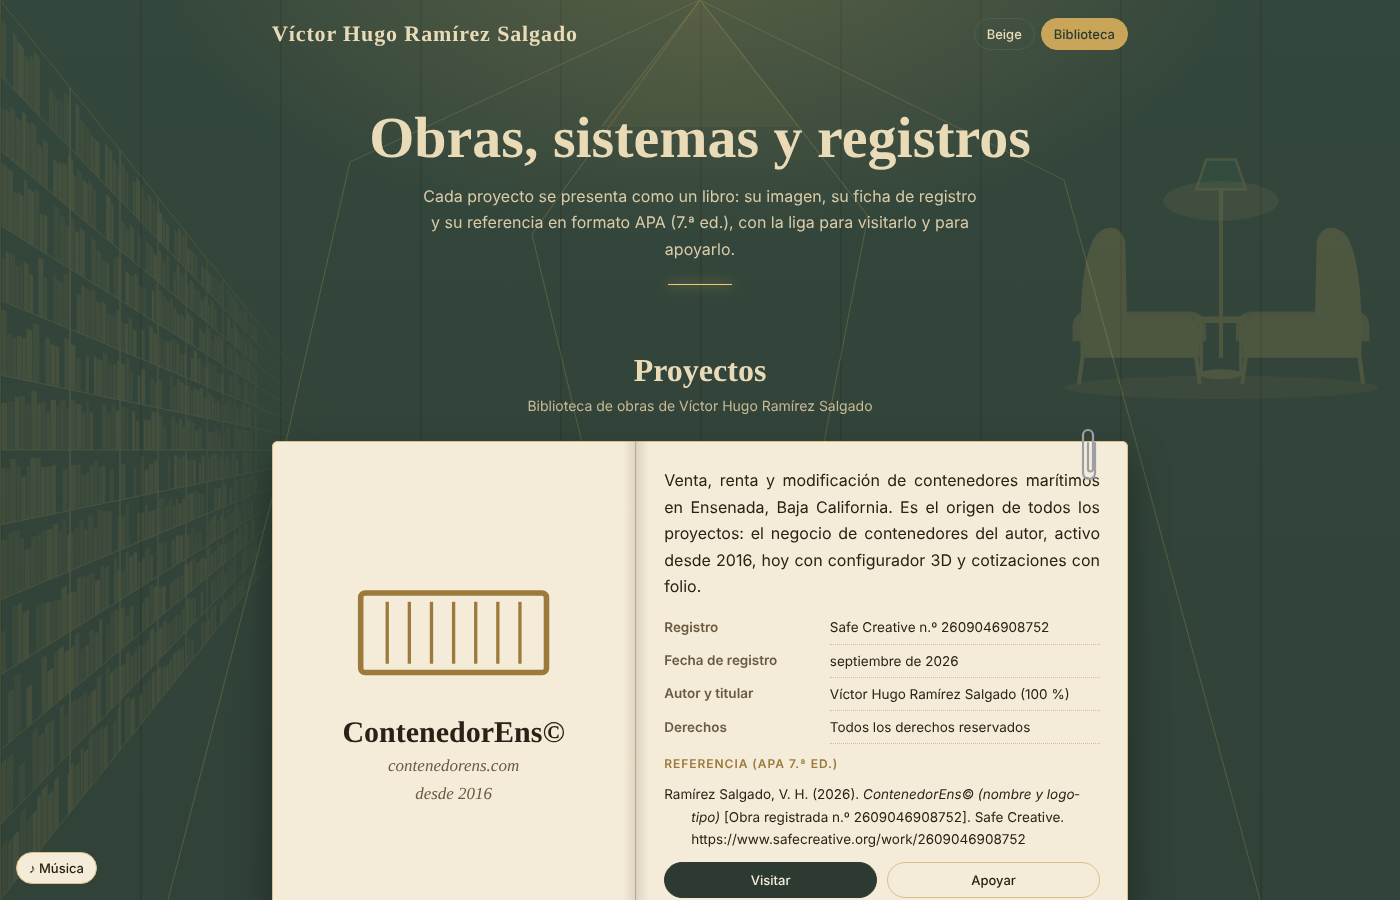
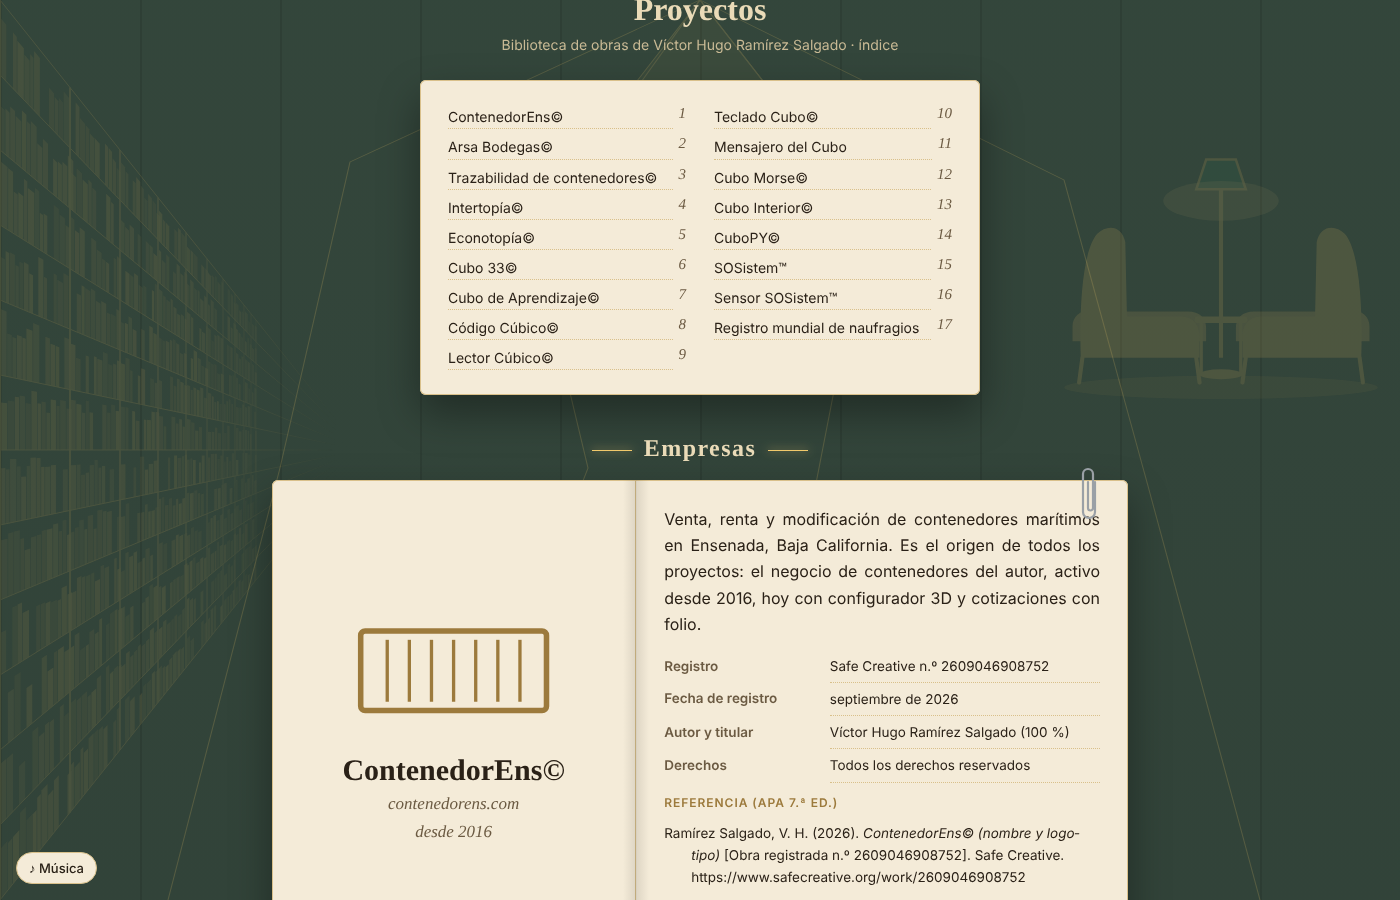
Propuesta: 17 obras como libros con índice y capítulos; se quita Idea 11
Asistencia-IA

Changed region(s): [[0.1843, 0.0, 0.8293, 1.0], [0.2457, 0.6533, 0.3993, 0.9333], [0.7064, 0.0, 0.8293, 0.0622]]

diff --git a/propuesta/index.html b/propuesta/index.html
@@ -44,7 +44,7 @@ body.biblioteca .subt{color:#C9BA95}
 .pag.izq .img{color:var(--acento);width:72%;margin:0 auto}
 .pag.izq h3{font:600 30px/1.05 "Cormorant Garamond",Georgia,serif;margin:6px 0 0}
 .pag.izq .dom{font:italic 500 17px "Cormorant Garamond",Georgia,serif;color:var(--mut)}
-.pag.der{text-align:justify;hyphens:auto;position:relative}
+.pag.der{text-align:justify;hyphens:auto;position:relative;padding-top:40px}
 .pag.der p{margin:0 0 12px}
 .ficha{width:100%;border-collapse:collapse;font-size:13.5px;margin:6px 0 12px}
 .ficha th{text-align:left;font-weight:600;color:var(--mut);padding:5px 8px 5px 0;width:38%;vertical-align:top}
@@ -77,7 +77,13 @@ body.biblioteca footer{color:#BFAF8C}
 .musica-panel li{margin:3px 0}
 .musica-panel a{color:var(--tinta)}
 .musica-panel small{display:block;color:var(--mut);margin-top:8px}
-@media (max-width:720px){
+.indice{max-width:560px;margin:0 auto 34px;padding:22px 28px;background:var(--papel);border-radius:6px;box-shadow:var(--sombra),inset 0 0 0 1px var(--linea);list-style:none;columns:2;column-gap:28px;font-size:14px}
+.indice li{display:flex;gap:6px;break-inside:avoid;padding:3px 0}
+.indice a{color:var(--tinta);text-decoration:none;flex:1;border-bottom:1px dotted var(--linea)}
+.indice span{color:var(--mut);font:italic 500 15px "Cormorant Garamond",Georgia,serif}
+.capitulo{font:600 24px/1.1 "Cormorant Garamond",Georgia,serif;text-align:center;color:var(--titulo);margin:40px 0 18px;letter-spacing:.06em}
+.capitulo:before,.capitulo:after{content:"";display:inline-block;width:40px;height:1px;background:var(--luz);vertical-align:middle;margin:0 12px;box-shadow:0 0 8px var(--luz)}
+@media (max-width:720px){.indice{columns:1}
  .libro{grid-template-columns:1fr}.libro:before{display:none}.pag.izq{border-right:0;border-bottom:1px solid var(--linea)}.pag.izq .img{width:46%}
  .libreria{width:55vw;opacity:.07}.sillones{width:60vw;opacity:.08}body.biblioteca .libreria{opacity:.11}body.biblioteca .sillones{opacity:.12}
 }
@@ -98,7 +104,8 @@ body.biblioteca footer{color:#BFAF8C}
 </section>
 
 <h2 class="sec">Proyectos</h2>
-<p class="subt">Biblioteca de obras de Víctor Hugo Ramírez Salgado</p>
+<p class="subt">Biblioteca de obras de Víctor Hugo Ramírez Salgado · índice</p>
+<ol class="indice" id="indice"></ol>
 <div id="libros"></div>
 
 <h2 class="sec">Constancia de obras registradas</h2>
@@ -122,7 +129,6 @@ body.biblioteca footer{color:#BFAF8C}
   <h4>Música para leer</h4>
   <ol>
    <li><a target="_blank" rel="noopener" href="https://open.spotify.com/search/Gibran%20Alcocer%20Idea%2010">Gibran Alcocer · Idea 10</a></li>
-   <li><a target="_blank" rel="noopener" href="https://open.spotify.com/search/Gibran%20Alcocer%20Idea%2011">Gibran Alcocer · Idea 11</a></li>
    <li><a target="_blank" rel="noopener" href="https://open.spotify.com/search/Gibran%20Alcocer%20Idea%2012">Gibran Alcocer · Idea 12</a></li>
    <li><a target="_blank" rel="noopener" href="https://open.spotify.com/search/Gibran%20Alcocer%20Idea%2022">Gibran Alcocer · Idea 22</a></li>
    <li><a target="_blank" rel="noopener" href="https://open.spotify.com/search/Yann%20Tiersen%20Am%C3%A9lie">Yann Tiersen · <i>Amélie</i> (banda sonora)</a></li>
@@ -143,22 +149,38 @@ econo:'<svg viewBox="0 0 100 60"><circle cx="50" cy="30" r="22" fill="none" stro
 cubo:'<svg viewBox="0 0 100 60"><path d="M50 6l26 13v26L50 58 24 45V19z" fill="none" stroke="currentColor" stroke-width="2.5"/><path d="M24 19l26 13 26-13M50 32v26" fill="none" stroke="currentColor" stroke-width="2"/></svg>',
 codigo:'<svg viewBox="0 0 100 60"><g fill="currentColor">'+Array.from({length:30},(_,i)=>((i*7)%3?`<rect x="${26+(i%6)*8}" y="${8+Math.floor(i/6)*9}" width="6" height="7"/>`:'')).join('')+'</g></svg>',
 teclado:'<svg viewBox="0 0 100 60"><rect x="8" y="14" width="84" height="38" rx="5" fill="none" stroke="currentColor" stroke-width="2.5"/><g fill="currentColor">'+Array.from({length:24},(_,i)=>`<rect x="${14+(i%8)*9.6}" y="${20+Math.floor(i/8)*9}" width="7" height="6" rx="1"/>`).join('')+'</g></svg>',
+aprende:'<svg viewBox="0 0 100 60"><path d="M50 14C40 8 22 8 12 12v40c10-4 28-4 38 2 10-6 28-6 38-2V12C78 8 60 8 50 14zM50 14v40" fill="none" stroke="currentColor" stroke-width="2.5"/></svg>',
+lector:'<svg viewBox="0 0 100 60"><rect x="32" y="4" width="36" height="52" rx="6" fill="none" stroke="currentColor" stroke-width="2.5"/><g fill="currentColor"><rect x="40" y="16" width="5" height="5"/><rect x="47" y="16" width="5" height="5"/><rect x="54" y="23" width="5" height="5"/><rect x="40" y="30" width="5" height="5"/><rect x="54" y="30" width="5" height="5"/></g><path d="M22 18v-8h8M78 18v-8h-8M22 42v8h8M78 42v8h-8" fill="none" stroke="currentColor" stroke-width="2"/></svg>',
+mensaje:'<svg viewBox="0 0 100 60"><path d="M14 10h72v32H40l-14 12V42H14z" fill="none" stroke="currentColor" stroke-width="2.5"/><g fill="currentColor"><rect x="24" y="20" width="6" height="6"/><rect x="34" y="20" width="6" height="6"/><rect x="44" y="26" width="6" height="6"/><rect x="58" y="20" width="6" height="6"/><rect x="68" y="26" width="6" height="6"/></g></svg>',
+morse:'<svg viewBox="0 0 100 60"><g fill="currentColor"><circle cx="18" cy="30" r="5"/><rect x="30" y="26" width="20" height="8" rx="4"/><circle cx="62" cy="30" r="5"/><rect x="74" y="26" width="14" height="8" rx="4"/></g></svg>',
+interior:'<svg viewBox="0 0 100 60"><path d="M50 6l26 13v26L50 58 24 45V19z" fill="none" stroke="currentColor" stroke-width="2.5"/><path d="M50 18l14 7v14l-14 7-14-7V25z" fill="none" stroke="currentColor" stroke-width="1.5" stroke-dasharray="3 2"/></svg>',
+py:'<svg viewBox="0 0 100 60"><path d="M34 14L18 30l16 16M66 14l16 16-16 16M56 10L44 50" fill="none" stroke="currentColor" stroke-width="2.5"/></svg>',
+sensor:'<svg viewBox="0 0 100 60"><rect x="38" y="20" width="24" height="20" rx="4" fill="none" stroke="currentColor" stroke-width="2.5"/><path d="M30 14a28 28 0 0 0 0 32M70 14a28 28 0 0 1 0 32M22 8a38 38 0 0 0 0 44M78 8a38 38 0 0 1 0 44" fill="none" stroke="currentColor" stroke-width="1.8"/></svg>',
+naufragio:'<svg viewBox="0 0 100 60"><path d="M8 40c8-4 12 4 20 0s12 4 20 0 12 4 20 0 12 4 20 0" fill="none" stroke="currentColor" stroke-width="2"/><path d="M30 30l30-12 10 20H38z" fill="none" stroke="currentColor" stroke-width="2.5"/><path d="M52 21V6" stroke="currentColor" stroke-width="2"/></svg>',
 sos:'<svg viewBox="0 0 100 60"><circle cx="50" cy="30" r="8" fill="currentColor"/><circle cx="50" cy="30" r="17" fill="none" stroke="currentColor" stroke-width="2"/><circle cx="50" cy="30" r="26" fill="none" stroke="currentColor" stroke-width="1.5" opacity=".5"/></svg>'};
 const CLIP='<svg class="clip" viewBox="0 0 22 62" aria-hidden="true"><path d="M15 18V48a6 6 0 0 1-12 0V10a5 5 0 0 1 10 0v34a2.5 2.5 0 0 1-5 0V18" fill="none" stroke="currentColor" stroke-width="2.2" stroke-linecap="round"/></svg>';
 const S={sos:'https://buy.stripe.com/28E5kF7c9dQwcDvgh4g7e05',inv:'https://buy.stripe.com/7sYeVf3ZX7s85b34ymg7e06',inter:'https://buy.stripe.com/cNifZj0NLeUAdHz8OCg7e07',econo:'https://buy.stripe.com/9B64gBfIF13K0UNe8Wg7e08',cubo:'https://buy.stripe.com/28E00l1RPeUAdHz1mag7e09'};
 const P=[
-['ContenedorEns©','contenedorens.com','contenedor','Venta, renta y modificación de contenedores marítimos en Ensenada, Baja California. Es el origen de todos los proyectos: el negocio de contenedores del autor, activo desde 2016, hoy con configurador 3D y cotizaciones con folio.','2609046908752','septiembre de 2026','ContenedorEns© (nombre y logotipo)','2016','../contenedorens/',S.inv],
-['Arsa Bodegas©','arsabodegas.com','bodega','Renta de mini bodegas tipo self storage en contenedores de 20 pies en El Sauzal, a orilla de la carretera a Ensenada. Opera desde 2018 con contratos de firma electrónica, recibos y cobranza en línea.','2609046908806','septiembre de 2026','Arsa Bodegas© (nombre y logotipo)','2018','../arsabodegas/',S.inv],
-['Trazabilidad de contenedores','tcontenedores.com','ruta','Propuesta de trazabilidad binacional de contenedores en el corredor Ensenada–Long Beach, con consulta por número ISO 6346 y una regulación nacional para los contenedores de segundo uso.','2610317507741','31 de octubre de 2026','Regulación de contenedores de segundo uso: trazabilidad nacional (propuesta)','2026','../tcontenedores/',S.inv],
-['Intertopía©','intertopía.com','inter','Concepto propuesto a la Real Academia Española el 13 de febrero de 2026: el espacio intermedio entre la utopía y la distopía. Da nombre a la familia de obras «topía» del autor.','2602144563892','febrero de 2026','Intertopía©','2026','../intertopia/',S.inter],
-['Econotopía©','econotopía.com','econo','Sistema de comunicación, aprendizaje y escritura cifrada construido sobre el Cubo de la Comunicación. Integra el Código Cúbico, el Teclado Cubo y el Lector Cúbico.','2610317507307','31 de octubre de 2026','Econotopía© 2.0: sistema de comunicación del Cubo','2026','../econotopia/',S.econo],
-['Cubo 33©','cubo33.com','cubo','El Cubo de la Comunicación A–Z: seis caras de 26 × 26 casillas, 4056 posiciones numeradas y el alfabeto en sus cuatro bordes. Herramienta central de Econotopía, con su Juego del Cubo y Cubo de Aprendizaje.','2611097590138','9 de noviembre de 2026','Juego del Cubo© y Cubo de Aprendizaje©','2026','../cubo33/',S.cubo],
-['Código Cúbico©','codigocubico.com','codigo','Modalidad de seguridad de Econotopía: el mensaje se escribe cara tras cara sobre el Cubo y solo se lee conociendo el orden de giro y el idioma. Tiene código largo y código corto para compartir.','2610097276721','octubre de 2026','Código Cúbico©: código de comunicación del Cubo (33)','2026','../codigocubico/',S.cubo],
-['Teclado Cubo©','Teclado del Cubo 33','teclado','Teclado propio para escribir directamente en el formato del Cubo desde el teléfono, pensado para sincronizarse como un idioma más en Apple y Android.','2610097277155','9 de octubre de 2026','Teclado Cubo©: El Cubo de la Comunicación Econotopía (memoria descriptiva y código fuente)','2026','../cubo33/',S.cubo],
-['SOSistem™','sosistem.com','sos','Plataforma de monitoreo sin cámaras para sanitarios y espacios confinados. Integra las aplicaciones del Cubo y su prueba en ContenedorEns; la marca está en trámite ante el IMPI (expediente 3741790).','2611097590053','9 de noviembre de 2026','Plataforma SOSistem™: cierre de la serie A (6.7 a 7.4) y serie B (7.5.0 a B.8.2.2)','2026','https://sosistem.com',S.sos]];
+['Empresas','ContenedorEns©','contenedorens.com','contenedor','Venta, renta y modificación de contenedores marítimos en Ensenada, Baja California. Es el origen de todos los proyectos: el negocio de contenedores del autor, activo desde 2016, hoy con configurador 3D y cotizaciones con folio.','2609046908752','septiembre de 2026','ContenedorEns© (nombre y logotipo)','2016','../contenedorens/',S.inv],
+['Empresas','Arsa Bodegas©','arsabodegas.com','bodega','Renta de mini bodegas tipo self storage en contenedores de 20 pies en El Sauzal, a orilla de la carretera a Ensenada. Opera desde 2018 con contratos de firma electrónica, recibos y cobranza en línea.','2609046908806','septiembre de 2026','Arsa Bodegas© (nombre y logotipo)','2018','../arsabodegas/',S.inv],
+['Propuestas','Trazabilidad de contenedores©','tcontenedores.com','ruta','Propuesta de trazabilidad binacional de contenedores en el corredor Ensenada–Long Beach, con consulta por número ISO 6346 y una regulación nacional para los contenedores de segundo uso.','2610317507741','31 de octubre de 2026','Regulación de contenedores de segundo uso: trazabilidad nacional (propuesta)','2026','../tcontenedores/',S.inv],
+['Concepto y valor','Intertopía©','intertopía.com','inter','Concepto propuesto a la Real Academia Española el 13 de febrero de 2026: el espacio intermedio entre la utopía y la distopía. Da nombre a la familia de obras «topía» del autor.','2602144563892','febrero de 2026','Intertopía©','2026','../intertopia/',S.inter],
+['Concepto y valor','Econotopía©','econotopía.com','econo','Sistema de comunicación, aprendizaje y escritura cifrada construido sobre el Cubo de la Comunicación. Integra el Código Cúbico, el Teclado Cubo y el Lector Cúbico.','2610317507307','31 de octubre de 2026','Econotopía© 2.0: sistema de comunicación del Cubo','2026','../econotopia/',S.econo],
+['Familia del Cubo','Cubo 33©','cubo33.com','cubo','El Cubo de la Comunicación A–Z: seis caras de 26 × 26 casillas, 4056 posiciones numeradas y el alfabeto en sus cuatro bordes. Es la pieza central de la que nacen todas las herramientas del Cubo.','2610097277377','9 de octubre de 2026','Econotopía Segura©: El Cubo de la Comunicación, memoria técnica y descriptiva','2026','../cubo33/',S.cubo],
+['Familia del Cubo','Cubo de Aprendizaje©','cubo33.com/aprende','aprende','Cubo para aprender a leer y escribir con el alfabeto del Cubo, con el Juego del Cubo 360 para dos a cuatro personas, tres niveles y el Cubo del Idioma.','2611097590138','9 de noviembre de 2026','Juego del Cubo© y Cubo de Aprendizaje©: Juego 360 para 2 a 4 personas, tres niveles y Cubo del Idioma','2026','../cubo33/aprende/',S.cubo],
+['Familia del Cubo','Código Cúbico©','codigocubico.com','codigo','El código de barras cúbico: el mensaje se escribe cara tras cara sobre el Cubo y se imprime como un bloque de casillas que solo se lee conociendo el orden de giro y el idioma. Tiene código largo y código corto.','2610097276721','9 de octubre de 2026','Código Cúbico©: código de comunicación del Cubo (33)','2026','../codigocubico/',S.cubo],
+['Familia del Cubo','Lector Cúbico©','Lector del Código Cúbico','lector','Lector con la cámara del teléfono que reconoce el código de barras cúbico y lo traduce de vuelta al mensaje original.','2610097277568','9 de octubre de 2026','Lector Cúbico©: Econotopía Segura, lector del Código Cúbico con cámara','2026','../codigocubico/',S.cubo],
+['Familia del Cubo','Teclado Cubo©','Teclado del Cubo 33','teclado','Teclado propio para escribir directamente en el formato del Cubo desde el teléfono, pensado para sincronizarse como un idioma más en Apple y Android.','2610097277155','9 de octubre de 2026','Teclado Cubo©: El Cubo de la Comunicación Econotopía (memoria descriptiva y código fuente)','2026','../cubo33/',S.cubo],
+['Familia del Cubo','Mensajero del Cubo','Teclado para mensajes propios','mensaje','Teclado en pantalla para escribir y enviar mensajes propios en Código Cúbico, con código largo y corto para compartir por cualquier aplicación.','2610097276721','9 de octubre de 2026','Código Cúbico©: código de comunicación del Cubo (33)','2026','../codigocubico/mensajero/',S.cubo],
+['Familia del Cubo','Cubo Morse©','cubo33.com/morse','morse','El alfabeto del Cubo en código Morse sonoro y luminoso: cada letra suena y se ilumina al tocarla.','2610257441754','25 de octubre de 2026','Cubo Morse©','2026','../cubo33/morse/',S.cubo],
+['Familia del Cubo','Cubo Interior©','Cubo de la Comunicación','interior','Vista interior del Cubo de la Comunicación: la numeración de sus posiciones y la relación entre caras para ubicar cada letra.','2610097277049','octubre de 2026','Cubo Interior©','2026','../cubo33/',S.cubo],
+['Familia del Cubo','CuboPY©','Código fuente en Python','py','Código fuente en Python del Cubo de la Comunicación, base de las herramientas que generan y leen el Código Cúbico.','2610097275281','octubre de 2026','CuboPY©','2026','../cubo33/',S.cubo],
+['SOSistem','SOSistem™','sosistem.com','sos','Plataforma de monitoreo sin cámaras para sanitarios y espacios confinados. Integra las aplicaciones del Cubo y su prueba en ContenedorEns; la marca está en trámite ante el IMPI (expediente 3741790).','2611097590053','9 de noviembre de 2026','Plataforma SOSistem™: cierre de la serie A (6.7 a 7.4) y serie B (7.5.0 a B.8.2.2)','2026','https://sosistem.com',S.sos],
+['SOSistem','Sensor SOSistem™','Sensor híper inteligente','sensor','Documento de diseño del sensor que detecta la presencia y las emergencias sin cámara dentro de sanitarios y espacios confinados.','2610317507499','31 de octubre de 2026','Sensor híper inteligente SOSistem™ (documento de diseño)','2026','https://sosistem.com',S.sos],
+['Propuestas','Registro mundial de naufragios','Propuesta CIP/OMI','naufragio','Propuesta de un registro mundial de buques varados y hundidos, con su ubicación en cartas náuticas, señalización y causas, para la Comisión Interamericana de Puertos y la Organización Marítima Internacional.','2610317507550','31 de octubre de 2026','Registro mundial de naufragios (propuesta CIP/OMI)','2026','../indice/',S.inv]];
 const anio=f=>(f.match(/\d{4}/)||[''])[0];
-document.getElementById('libros').innerHTML=P.map(([n,d,i,t,r,f,tit,desde,v,s],k)=>`
-<article class="libro">
+document.getElementById('libros').innerHTML=P.map(([g,n,d,i,t,r,f,tit,desde,v,s],k)=>`${k===0||P[k-1][0]!==g?`<h3 class="capitulo" id="cap-${k}">${g}</h3>`:''}
+<article class="libro" id="obra-${k+1}">
  <div class="pag izq"><div class="img">${I[i]}</div><h3>${n}</h3><div class="dom">${d}</div><div class="dom">desde ${desde}</div></div>
  <div class="pag der">${CLIP}
   <p>${t}</p>
@@ -169,6 +191,7 @@ document.getElementById('libros').innerHTML=P.map(([n,d,i,t,r,f,tit,desde,v,s],k
   <span class="folio">${k+1}</span>
  </div>
 </article>`).join('');
+document.getElementById('indice').innerHTML=P.map(([g,n],k)=>`<li><a href="#obra-${k+1}">${n}</a><span>${k+1}</span></li>`).join('');
 const R=[['Intertopía©','2602144563892'],['1ntertopía©','2606096034080'],['ContenedorEns© (nombre y logo)','2609046908752'],['Arsa Bodegas© (nombre y logo)','2609046908806'],['Econotopía© 2.0','2610317507307'],['Código Cúbico©','2610097276721'],['Teclado Cubo©','2610097277155'],['Cubo Morse©','2610257441754'],['Juego del Cubo©','2611097590138'],['Plataforma SOSistem™ (series A y B)','2611097590053'],['…y 15 registros más','25 en total']];
 document.getElementById('tabla').innerHTML=R.map(([o,n])=>`<tr><td>${o}</td><td>${n}</td></tr>`).join('');
 const set=t=>{document.body.classList.toggle('biblioteca',t==='b');t1.setAttribute('aria-pressed',t!=='b');t2.setAttribute('aria-pressed',t==='b')};
